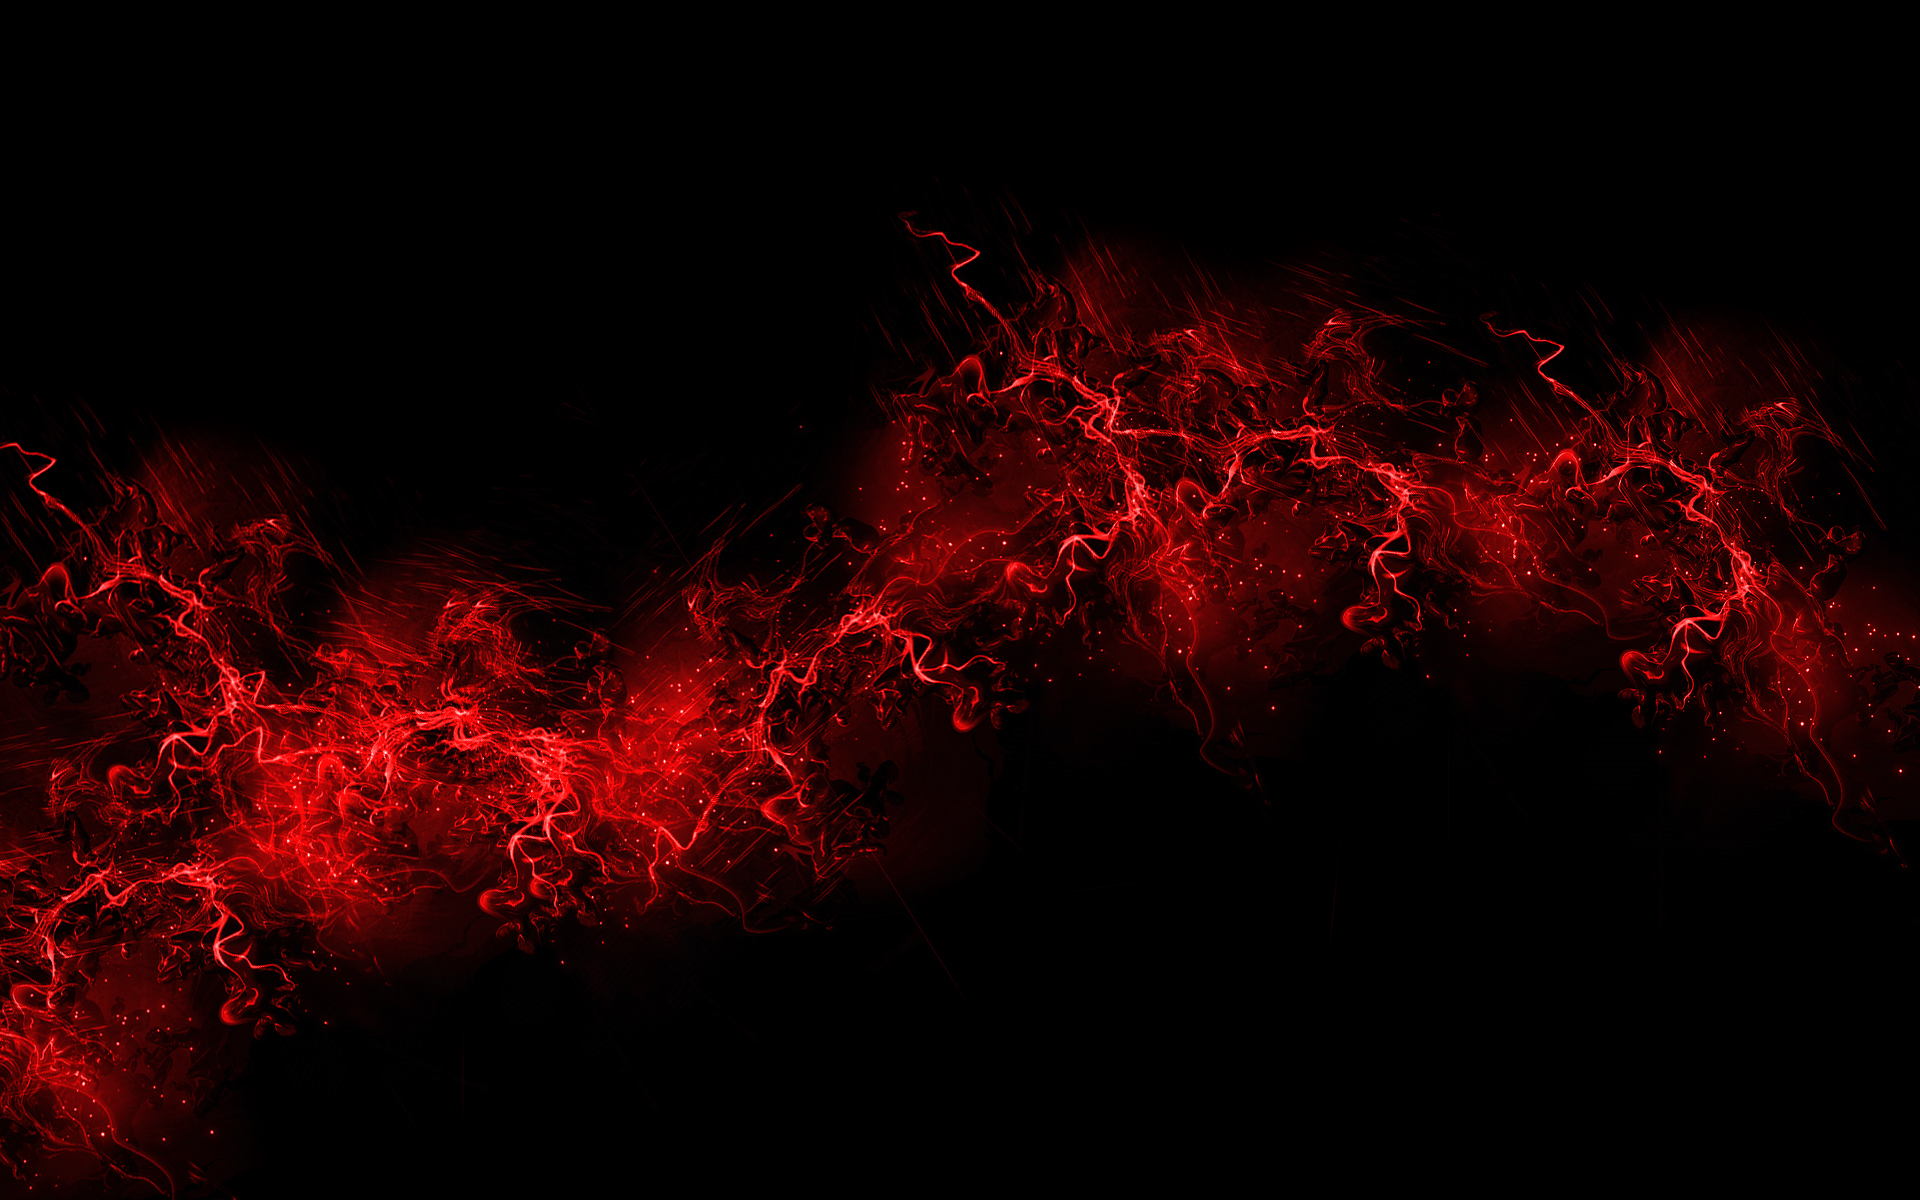
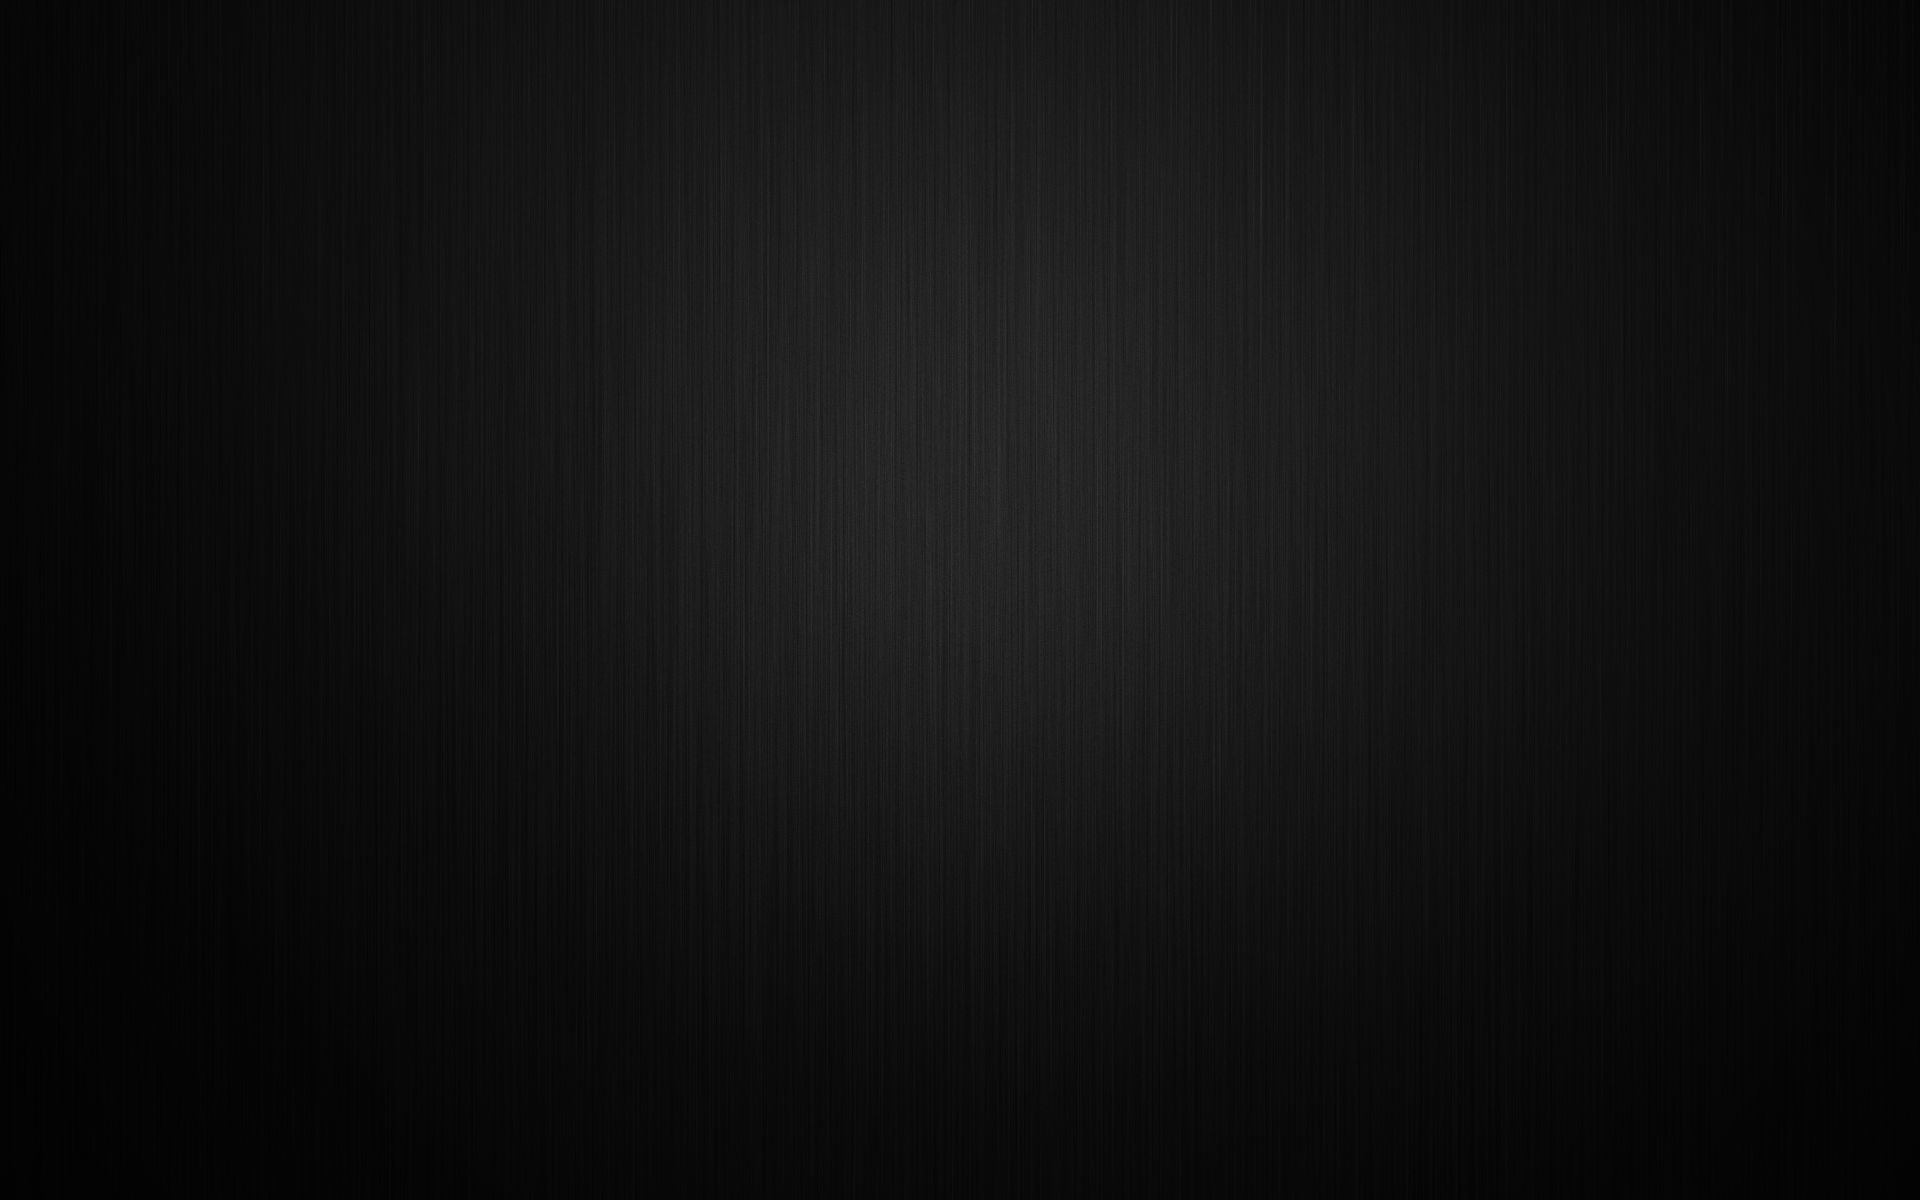
11/11

diff --git a/src/Components/WelcomPage.js b/src/Components/WelcomPage.js
@@ -1,5 +1,5 @@
 import React, { Component } from 'react';
-import { View, Text, TouchableOpacity, Dimensions, StatusBar } from 'react-native'
+import { View, Text, TouchableOpacity, Dimensions, StatusBar, Image } from 'react-native'
 
 var siteImages = 'http://ruppinmobile.tempdomain.co.il/site07/Images/';
 
@@ -11,24 +11,25 @@ export default class WelcomePage extends Component {
 
     render() {
         return (
-        <View>
             <View>
-            <Image style={{width:50,height:50}} source={{uri: siteImages + 'shuman.jpg'}}/>
+                <View>
+                <Image style={{ borderRadius:5,width: 80, height: 80,position: 'absolute',top:50,left:50  }} source={{ uri: siteImages + 'BurnEat-red.jpeg' }}/>
+                </View>
+                <Image style={{ width: WIDTH, height: HEIGHT, position: 'absolute'  }} source={{ uri: siteImages + 'background.jpg' }}/>
+                <View>
+                    <TouchableOpacity style={[styles.ExistingUserButton, { justifyContent: 'center', alignItems: 'center', left: 100, top: 400 }]}
+                        onPress={() => { this.props.navigation.navigate("Login") }}
+                    >
+                        <Text style={{ fontSize: 15 }}>משתמש קיים</Text>
+                    </TouchableOpacity>
+                    <TouchableOpacity
+                        style={[styles.newUserButton, { justifyContent: 'center', alignItems: 'center', left: 100, top: 450 }]}
+                        onPress={() => { this.props.navigation.navigate("NewUser") }}
+                    >
+                        <Text style={{ fontSize: 15 }}>משתמש חדש</Text>
+                    </TouchableOpacity>
+                </View>
             </View>
-            <View>  
-                <TouchableOpacity style={[styles.ExistingUserButton, { justifyContent: 'center', alignItems: 'center' }]}
-                    onPress={() => { this.props.navigation.navigate("Login") }}
-                >
-                    <Text style={{ fontSize: 15 }}>משתמש קיים</Text>
-                </TouchableOpacity>
-                <TouchableOpacity
-                    style={[styles.newUserButton, { justifyContent: 'center', alignItems: 'center' }]}
-                    onPress={() => { this.props.navigation.navigate("NewUser") }}
-                >
-                    <Text style={{ fontSize: 15 }}>משתמש חדש</Text>
-                </TouchableOpacity>
-            </View> 
-        </View>
         )
     };
 }

diff --git a/src/Components/LoginPage.js b/src/Components/LoginPage.js
@@ -77,6 +77,7 @@ export default class LoginPage extends Component {
     render() {
         return (
             <View style={styles.container}>
+             <Image style={{ width: WIDTH, height: HEIGHT, position: 'absolute'  }} source={{ uri: siteImages + 'background.jpg' }}/>
                 <View style={styles.inputContainer}>
                     <Image style={styles.inputIcon} source={{ uri: siteImages + 'emailIcon.png' }} />
                     <TextInput style={styles.inputs}
@@ -98,12 +99,12 @@ export default class LoginPage extends Component {
                         onChangeText={this.passChange} />
                 </View>
                 <TouchableOpacity
-                    style={styles.button}
+                    style={[styles.ExistingUserButton, { justifyContent: 'center', alignItems: 'center', left: 100, top: 400 }]}
                     onPress={this.checkLogin}>
                     <Text> התחבר </Text>
                 </TouchableOpacity>
                 <TouchableOpacity
-                    style={styles.button}
+                    style={[styles.newUserButton, { justifyContent: 'center', alignItems: 'center', left: 100, top: 450 }]}
                     onPress={() => { this.props.navigation.navigate("Welcome") }}
                 >
                     <Text> חזור </Text>
@@ -173,4 +174,20 @@ const styles = {
         marginLeft: 15,
         justifyContent: 'center'
     },
+    newUserButton: {
+        position: "absolute",
+        top: HEIGHT - 65,
+        width: WIDTH - 200,
+        height: 40,
+        backgroundColor: "#FAFAD2",
+        borderRadius: 70
+    },
+    ExistingUserButton: {
+        position: "absolute",
+        top: HEIGHT - 115,
+        width: WIDTH - 200,
+        height: 40,
+        backgroundColor: "#FAFAD2",
+        borderRadius: 70
+    }
 };
